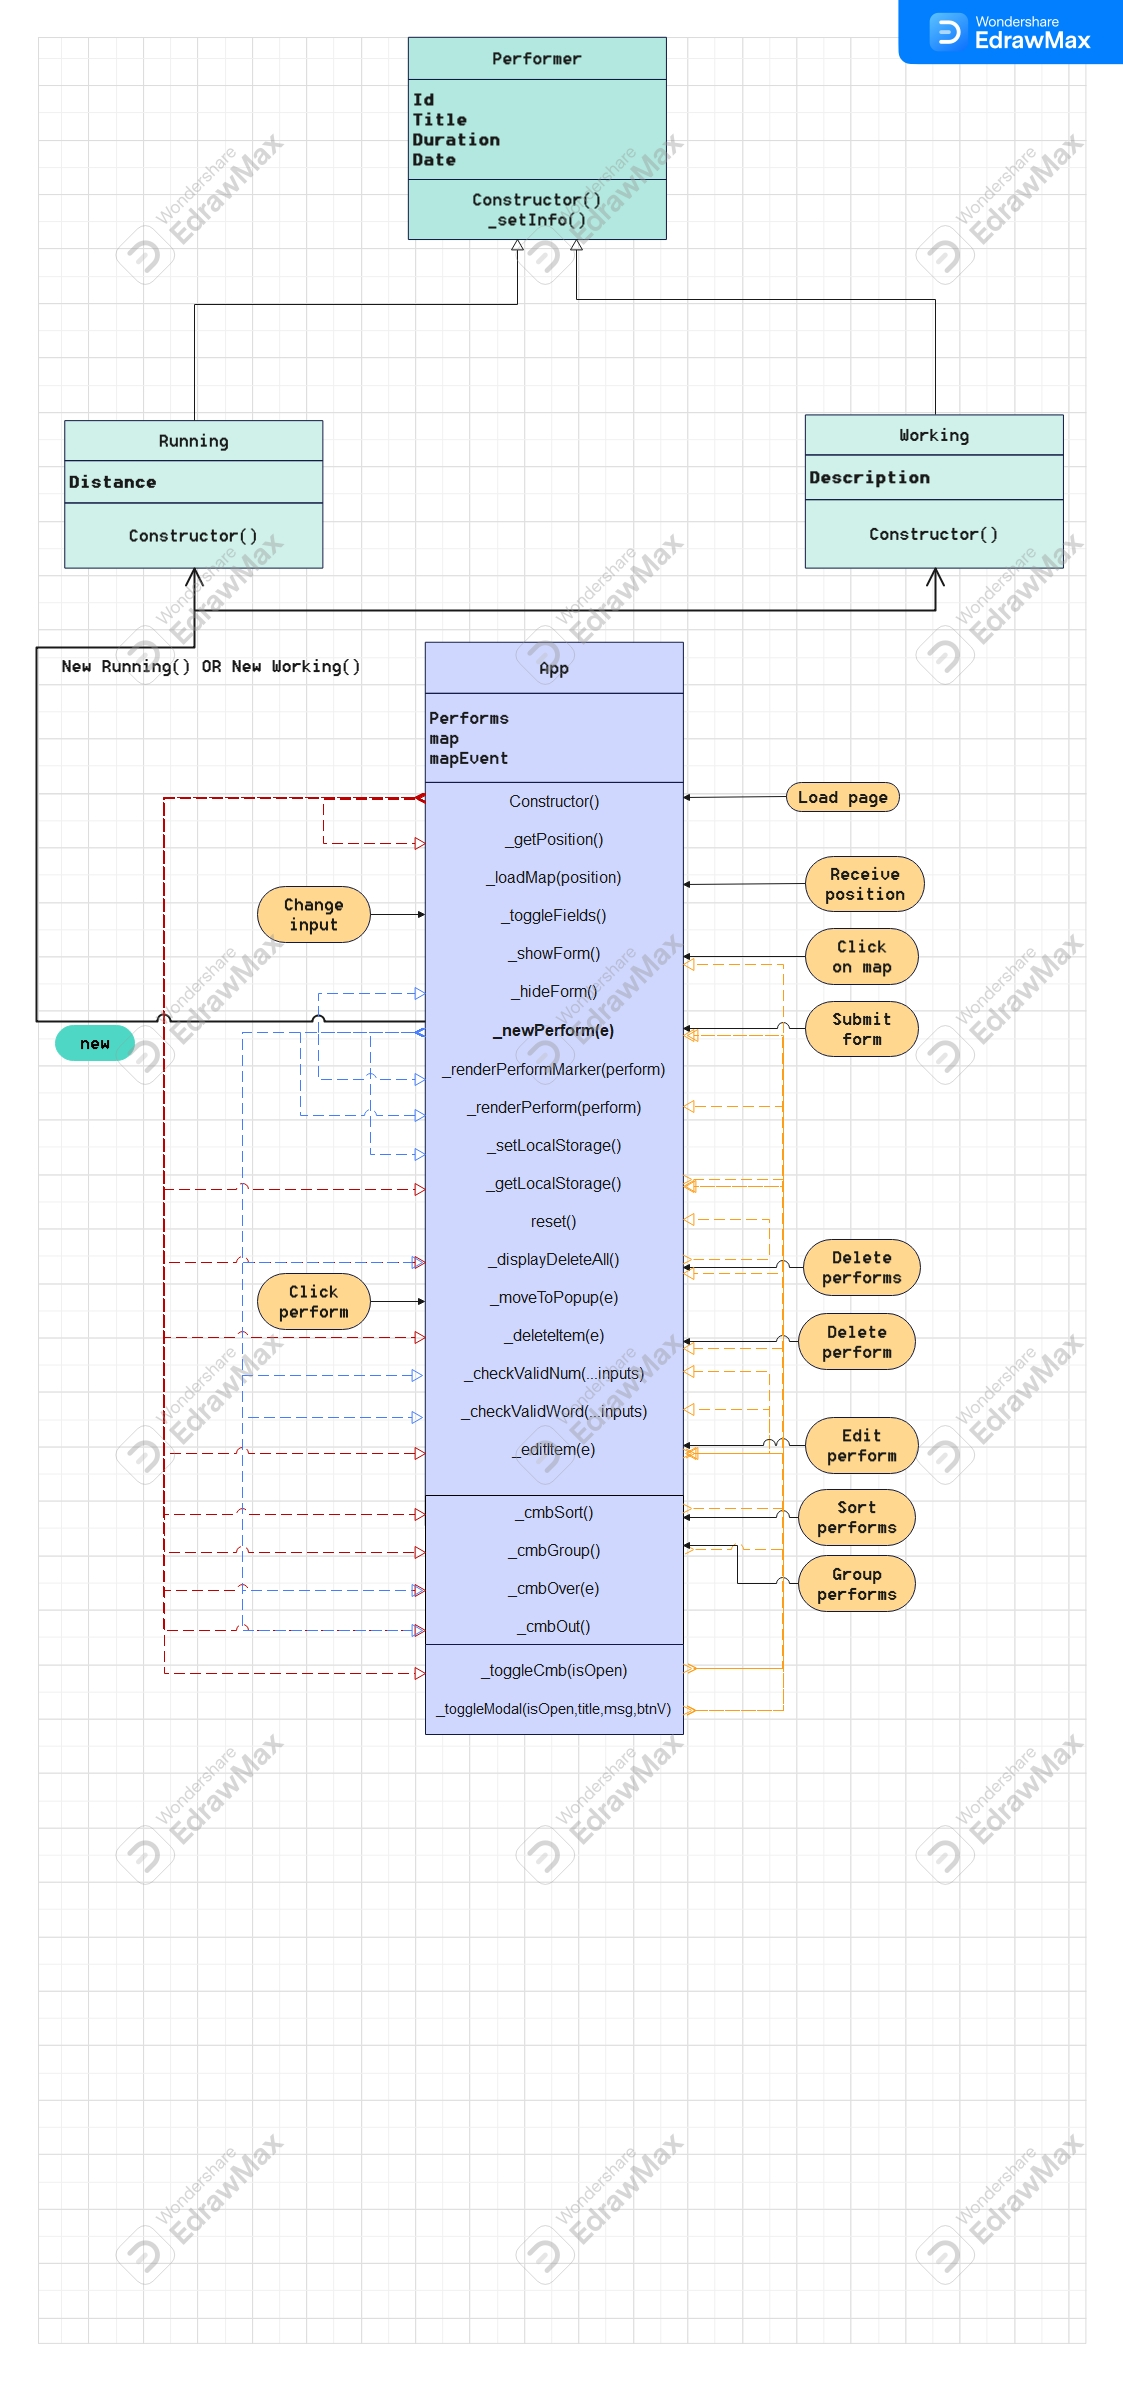
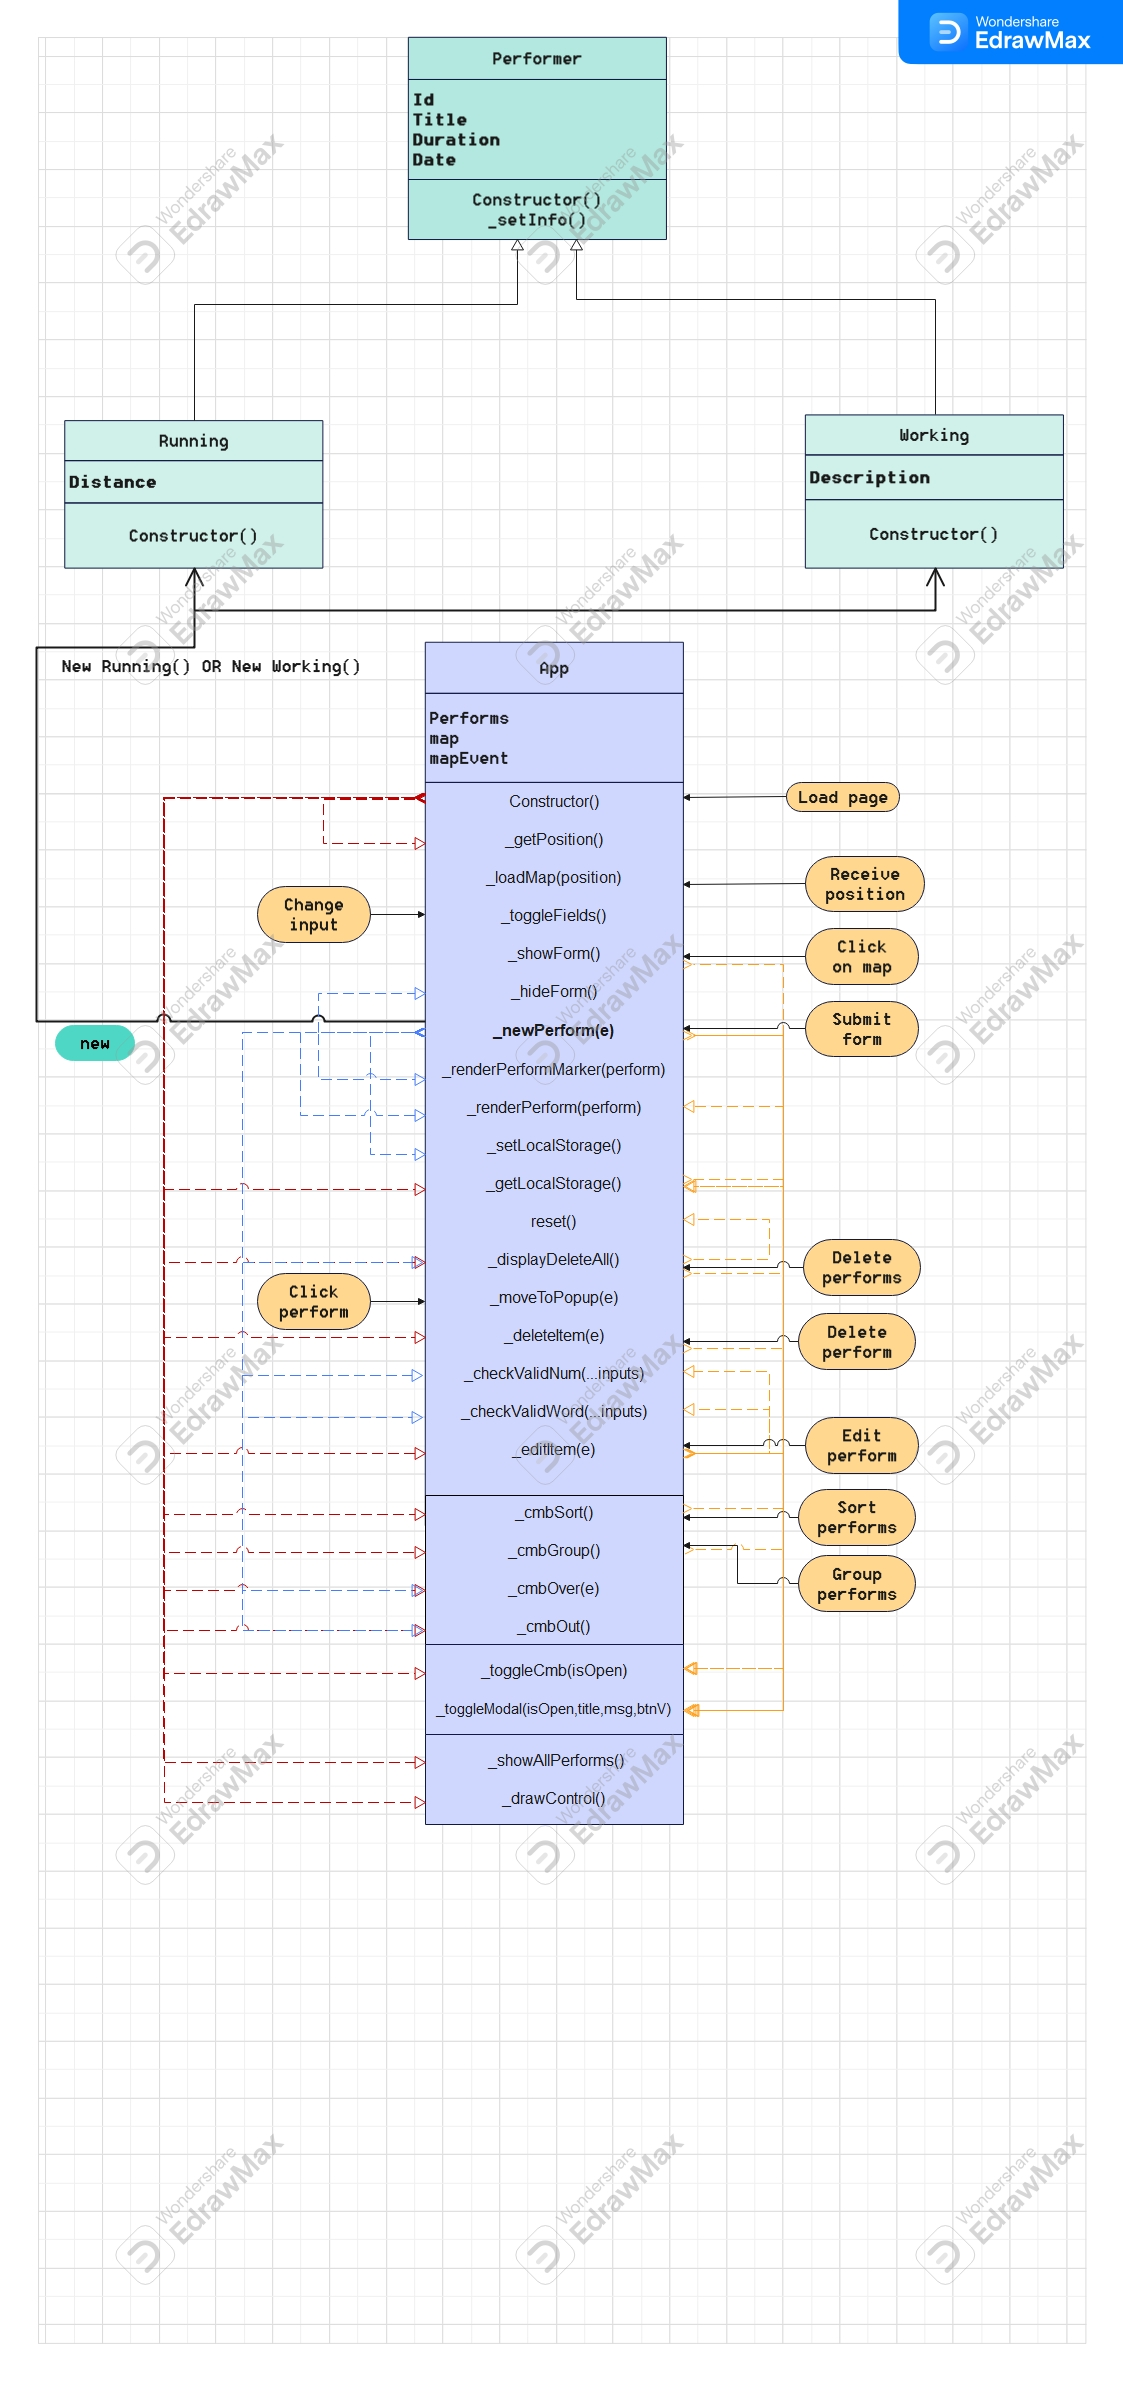
feat: Add drawing controls and display functionality for map performs
feat: Implemented _showAllPerforms() to center and fit the map bounds to markers of all performs using L.latLngBounds.

feat: Added _drawControl() to enable drawing tools on the map, supporting lines, polygons, rectangles, circles, and markers.

feat: Configured the edit functionality with L.FeatureGroup for editing drawn shapes.

diff --git a/script.js b/script.js
@@ -19,6 +19,8 @@ const modalMsg = document.querySelector(".modal_msg");
 const overlay = document.querySelector(".overlay");
 let btnModal = document.querySelector(".btn_modal");
 const btnModalClose = document.querySelector(".close_modal");
+const btnShowAllPerforms = document.querySelector(".show_all_performs");
+const drawControl = document.querySelector(".draw_control");
 
 class Perform {
   date = new Date();
@@ -60,6 +62,7 @@ class App {
   #map;
   #performs = [];
   #mapEvent;
+  #drawnItems;
   //#markers = {};
   constructor() {
     this._getPosition();
@@ -93,6 +96,11 @@ class App {
     cmbGroup.addEventListener("change", this._group.bind(this));
     containerPerform.addEventListener("mouseover", this._cmbOver);
     containerPerform.addEventListener("mouseout", this._cmbOut);
+    btnShowAllPerforms.addEventListener(
+      "click",
+      this._showAllPerforms.bind(this)
+    );
+    drawControl.addEventListener("click", this._drawControl.bind(this));
   }
   _getPosition() {
     if (navigator.geolocation) {
@@ -240,6 +248,7 @@ class App {
     //Info: Display sort and group dropdown
     this._toggleCmb(true);
 
+    console.log(this.#performs);
     containerPerform.addEventListener("mouseover", this._cmbOver);
     containerPerform.addEventListener("mouseout", this._cmbOut);
   }
@@ -320,9 +329,17 @@ class App {
   }
   _getLocalStorage() {
     const data = JSON.parse(localStorage.getItem("perform"));
+    const dataDraw = JSON.parse(localStorage.getItem("drawnShapes"));
+    //console.log(dataDraw);
     if (!data) return;
     this.#performs = data;
     this.#performs.forEach((perform) => this._renderPerform(perform));
+    // if (!dataDraw) return;
+    // L.geoJSON(dataDraw).eachLayer((layer) => {
+    //   this.#drawnItems?.addLayer(layer);
+    // });
+    // this.#map?.addLayer(this.#drawnItems);
+    // console.log(this.#drawnItems);
   }
 
   reset() {
@@ -615,6 +632,43 @@ class App {
       overlay.classList.add("hidden");
       modal.style.height = "";
     }
+  }
+  _showAllPerforms() {
+    const markers = this.#performs.map((perform) => perform.marker._latlng);
+    const bounds = L.latLngBounds(markers);
+    this.#map.fitBounds(bounds);
+  }
+  _drawControl() {
+    const drawControl = new L.Control.Draw({
+      draw: {
+        polyline: true, // Enable drawing lines
+        polygon: true, // Enable drawing polygons
+        rectangle: true, // Enable drawing rectangles
+        circle: true, // Enable drawing circles
+        marker: true, // Enable adding markers
+      },
+      edit: {
+        featureGroup: new L.FeatureGroup().addTo(this.#map),
+      },
+    });
+    this.#map.addControl(drawControl);
+    this.#drawnItems = new L.FeatureGroup();
+
+    this.#map.on("draw:created", (event) => {
+      console.log(event);
+
+      this.#map.addLayer(this.#drawnItems);
+
+      this.#drawnItems.addLayer(event.layer);
+      // const data = this.#drawnItems.toGeoJSON();
+      //localStorage.setItem("drawnShapes", JSON.stringify(data));
+
+      // if (event.layerType === "polyline" || event.layerType === "polygon") {
+      //   console.log("Coordinates:", layer.getLatLngs());
+      // } else if (event.layerType === "marker") {
+      //   console.log("Coordinates:", layer.getLatLng());
+      // }
+    });
   }
 }
 

diff --git a/index.html b/index.html
@@ -4,6 +4,11 @@
     <meta charset="UTF-8" />
 
     <title>Document</title>
+    <link
+      rel="stylesheet"
+      href="https://cdnjs.cloudflare.com/ajax/libs/leaflet.draw/1.0.4/leaflet.draw.css"
+    />
+
     <link rel="preconnect" href="https://fonts.googleapis.com" />
     <link rel="preconnect" href="https://fonts.gstatic.com" crossorigin />
 
@@ -31,20 +36,40 @@
       integrity="sha256-p4NxAoJBhIIN+hmNHrzRCf9tD/miZyoHS5obTRR9BMY="
       crossorigin=""
     />
+    <!--  <script
+      defer
+      src="https://unpkg.com/leaflet@1.9.4/dist/leaflet.js"
+      integrity="sha256-20nQCchB9co0qIjJZRGuk2/Z9VM+kNiyxNV1lvTlZBo="
+      crossorigin=""
+    ></script>
+    <script src="https://cdnjs.cloudflare.com/ajax/libs/leaflet.draw/1.0.4/leaflet.draw.js"></script>
+    <link rel="stylesheet" href="style.css" />
+    <script defer src="script.js"></script> -->
+    <!-- Leaflet Core -->
     <script
       defer
       src="https://unpkg.com/leaflet@1.9.4/dist/leaflet.js"
       integrity="sha256-20nQCchB9co0qIjJZRGuk2/Z9VM+kNiyxNV1lvTlZBo="
       crossorigin=""
     ></script>
+
+    <!-- Leaflet.draw Plugin -->
+    <script
+      defer
+      src="https://cdnjs.cloudflare.com/ajax/libs/leaflet.draw/1.0.4/leaflet.draw.js"
+    ></script>
+
+    <!-- Custom CSS -->
     <link rel="stylesheet" href="style.css" />
+
+    <!-- Custom Script -->
     <script defer src="script.js"></script>
   </head>
   <body>
     <section>
       <div class="sidebar">
         <div class="logo">
-          <img src="map.png" alt="Logo" />
+          <img src="image.png" alt="Logo" />
           <h1>MapMate</h1>
         </div>
 
@@ -130,6 +155,16 @@
         <br />
         <input type="button" value="DELETE" class="btn_modal btn__form" />
       </div>
+      <input
+        type="button"
+        value="center_focus_strong"
+        class="show_all_performs material-symbols-outlined map_icons"
+      />
+      <input
+        type="button"
+        value="shape_line"
+        class="draw_control material-symbols-outlined map_icons"
+      />
     </section>
   </body>
 </html>

diff --git a/style.css b/style.css
@@ -32,15 +32,15 @@ body {
   display: flex;
 }
 img {
-  height: 5.2rem;
-  margin-left: 2.3rem;
+  height: 6.2rem;
+  margin-left: 3.7rem;
 }
 
 h1 {
-  font-family: "Alumni Sans Pinstripe", serif;
-  font-weight: 900;
+  font-family: inherit;
   font-style: normal;
-  font-size: 36px;
+  font-size: 20px;
+  margin-left: 28px;
 }
 
 /* Main layout */
@@ -63,8 +63,7 @@ section {
 }
 
 .logo {
-  margin-bottom: 10px;
-  height: 5.2rem;
+  height: 6.2rem;
   align-self: center;
 }
 
@@ -149,6 +148,7 @@ section {
 
 /* Map styling */
 #map {
+  z-index: 1;
   flex-grow: 1; /* Map takes up remaining space */
   background-color: var(--color-light--1);
 }
@@ -310,7 +310,7 @@ section {
   height: 100%;
   background-color: rgba(0, 0, 0, 0.1);
   backdrop-filter: blur(3px);
-  z-index: 5;
+  z-index: 0;
 }
 .modal {
   font-family: var(--third-font);
@@ -360,4 +360,28 @@ section {
 }
 .delete_modal:hover {
   font-weight: normal;
+}
+.map_icons {
+  z-index: 2;
+  position: absolute;
+  right: 3rem;
+  bottom: 4rem;
+  border-radius: 2rem;
+  padding: 0.5rem 1rem;
+  cursor: pointer;
+  background-color: var(--color-dark--1);
+  border: none;
+  outline: none;
+  color: var(--color-light--2);
+  font-size: medium;
+}
+
+.map_icons:hover {
+  color: var(--color-light--1);
+  transition: 0.5s;
+}
+.draw_control {
+  right: 3rem;
+  bottom: 7.7rem;
+  font-size: medium;
 }
